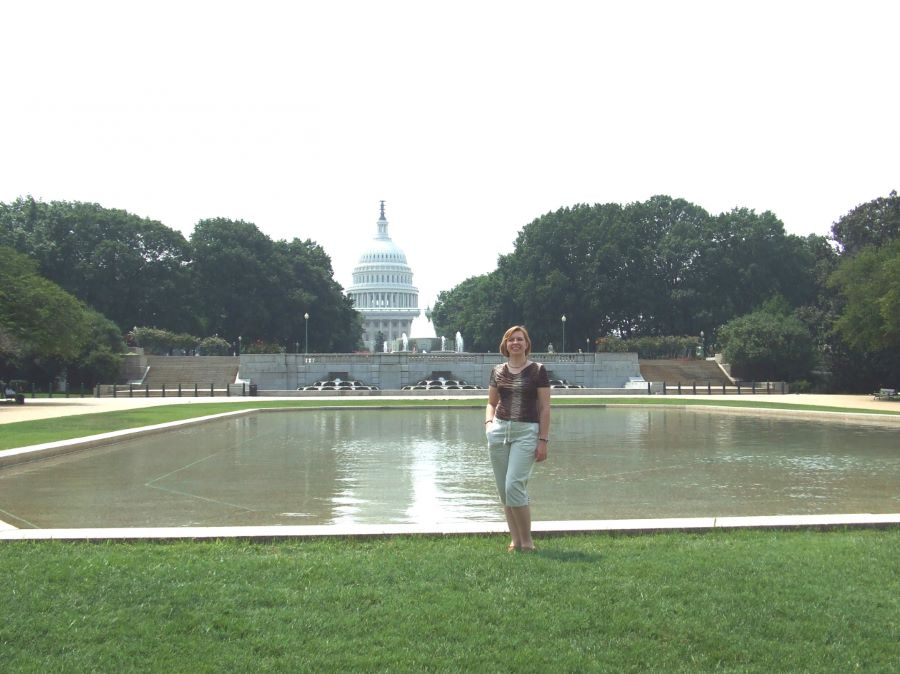
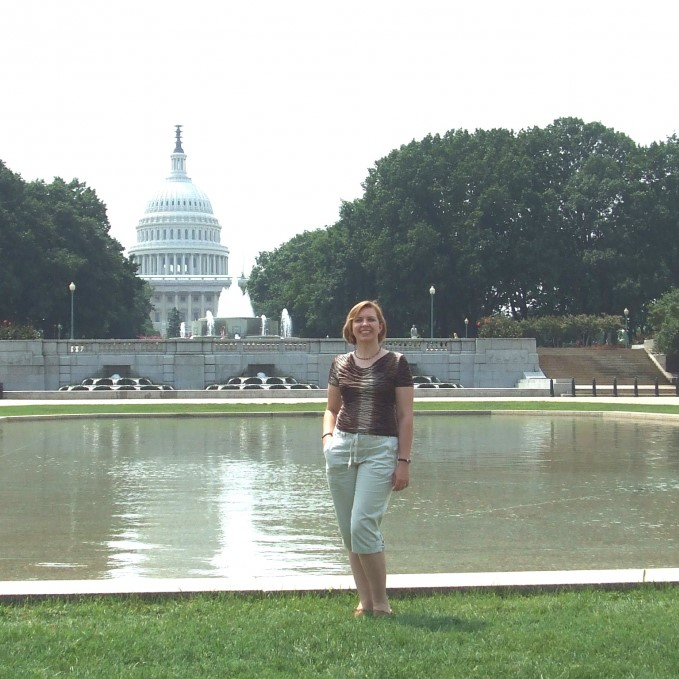
Add wepb format image

diff --git a/teacher.html b/teacher.html
@@ -100,57 +100,183 @@
         <section class="wrapper">
             <h2 class="content__title">Дипломы и сертификаты</h2>
             <div class="grid-photos">
-                <figure class="grid-photos__item"><img src="img/diplomas/1.jpg" alt="" class="grid-photos__image"></figure>
-                <figure class="grid-photos__item grid-photos__item--double"><img src="img/diplomas/2.jpg" alt="" class="grid-photos__image"></figure>
-                <figure class="grid-photos__item"><img src="img/diplomas/3.jpg" alt="" class="grid-photos__image"></figure>
-                <figure class="grid-photos__item grid-photos__item--double"><img src="img/diplomas/4.jpg" alt="" class="grid-photos__image"></figure>
-                <figure class="grid-photos__item"><img src="img/diplomas/7.jpg" alt="" class="grid-photos__image"></figure>
-                <figure class="grid-photos__item grid-photos__item--double"><img src="img/diplomas/8.jpg" alt="" class="grid-photos__image"></figure>
-                <figure class="grid-photos__item"><img src="img/diplomas/9.jpg" alt="" class="grid-photos__image"></figure>
-                <figure class="grid-photos__item grid-photos__item--double"><img src="img/diplomas/10.jpg" alt="" class="grid-photos__image"></figure>
-                <figure class="grid-photos__item"><img src="img/diplomas/13.jpg" alt="" class="grid-photos__image"></figure>
-                <figure class="grid-photos__item"><img src="img/diplomas/14.jpg" alt="" class="grid-photos__image"></figure>
-                <figure class="grid-photos__item"><img src="img/diplomas/19.jpg" alt="" class="grid-photos__image"></figure>
-                <figure class="grid-photos__item"><img src="img/diplomas/20.jpg" alt="" class="grid-photos__image"></figure>
-                <figure class="grid-photos__item grid-photos__item--double"><img src="img/diplomas/11.jpg" alt="" class="grid-photos__image"></figure>
-                <figure class="grid-photos__item grid-photos__item--double"><img src="img/diplomas/12.jpg" alt="" class="grid-photos__image"></figure>
-                <figure class="grid-photos__item"><img src="img/diplomas/15.jpg" alt="" class="grid-photos__image"></figure>
-                <figure class="grid-photos__item"><img src="img/diplomas/16.jpg" alt="" class="grid-photos__image"></figure>
-                <figure class="grid-photos__item"><img src="img/diplomas/17.jpg" alt="" class="grid-photos__image"></figure>
-                <figure class="grid-photos__item"><img src="img/diplomas/18.jpg" alt="" class="grid-photos__image"></figure>
-                <figure class="grid-photos__item"><img src="img/diplomas/21.jpg" alt="" class="grid-photos__image"></figure>
-                <figure class="grid-photos__item"><img src="img/diplomas/22.jpg" alt="" class="grid-photos__image"></figure>
-                <figure class="grid-photos__item"><img src="img/diplomas/23.jpg" alt="" class="grid-photos__image"></figure>
-                <figure class="grid-photos__item"><img src="img/diplomas/24.jpg" alt="" class="grid-photos__image"></figure>
-                <figure class="grid-photos__item"><img src="img/diplomas/25.jpg" alt="" class="grid-photos__image"></figure>
-                <figure class="grid-photos__item"><img src="img/diplomas/26.jpg" alt="" class="grid-photos__image"></figure>
+                <figure class="grid-photos__item">
+                    <picture>
+                        <source srcset="img/diplomas/1.webp" type="image/webp">
+                        <img src="img/diplomas/1.jpg" alt="Обложка аттестата о среднем образовании." class="grid-photos__image">
+                    </picture>
+                </figure>
+                <figure class="grid-photos__item grid-photos__item--double">
+                    <picture>
+                        <source srcset="img/diplomas/2.webp" type="image/webp">
+                        <img src="img/diplomas/2.jpg" alt="Разворот аттестата о среднем образовании." class="grid-photos__image">
+                    </picture>
+                </figure>
+                <figure class="grid-photos__item">
+                    <picture>
+                        <source srcset="img/diplomas/3.webp" type="image/webp">
+                        <img src="img/diplomas/3.jpg" alt="Обложка диплома о высшем образовании." class="grid-photos__image">
+                    </picture>
+                </figure>
+                <figure class="grid-photos__item grid-photos__item--double">
+                    <picture>
+                        <source srcset="img/diplomas/4.webp" type="image/webp">
+                        <img src="img/diplomas/4.jpg" alt="Разворот диплома о высшем образовании." class="grid-photos__image">
+                    </picture>
+                </figure>
+                <figure class="grid-photos__item">
+                    <picture>
+                        <source srcset="img/diplomas/7.webp" type="image/webp">
+                        <img src="img/diplomas/7.jpg" alt="Обложка диплома о высшем бакалавра." class="grid-photos__image">
+                    </picture>
+                </figure>
+                <figure class="grid-photos__item grid-photos__item--double">
+                    <picture>
+                        <source srcset="img/diplomas/8.webp" type="image/webp">
+                        <img src="img/diplomas/8.jpg" alt="Разворот диплома о высшем бакалавра." class="grid-photos__image">
+                    </picture>
+                </figure>
+                <figure class="grid-photos__item">
+                    <picture>
+                        <source srcset="img/diplomas/9.webp" type="image/webp">
+                        <img src="img/diplomas/9.jpg" alt="Обложка диплома о высшем магистра." class="grid-photos__image">
+                    </picture>
+                </figure>
+                <figure class="grid-photos__item grid-photos__item--double">
+                    <picture>
+                        <source srcset="img/diplomas/10.webp" type="image/webp">
+                        <img src="img/diplomas/10.jpg" alt="Разворот диплома о высшем магистра." class="grid-photos__image">
+                    </picture>
+                </figure>
+                <figure class="grid-photos__item">
+                    <picture>
+                        <source srcset="img/diplomas/13.webp" type="image/webp">
+                        <img src="img/diplomas/13.jpg" alt="Диплом." class="grid-photos__image">
+                    </picture>
+                </figure>
+                <figure class="grid-photos__item">
+                    <picture>
+                        <source srcset="img/diplomas/14.webp" type="image/webp">
+                        <img src="img/diplomas/14.jpg" alt="Диплом второй степени республиканского конкурса научных работ 1997 года." class="grid-photos__image">
+                    </picture>
+                </figure>
+                <figure class="grid-photos__item">
+                    <picture>
+                        <source srcset="img/diplomas/19.webp" type="image/webp">
+                        <img src="img/diplomas/19.jpg" alt="Диплом участника третьей Международной научно-практической кинференции." class="grid-photos__image">
+                    </picture>
+                </figure>
+                <figure class="grid-photos__item">
+                    <picture>
+                        <source srcset="img/diplomas/20.webp" type="image/webp">
+                        <img src="img/diplomas/20.jpg" alt="Свидетельство об успешном прохождении обучения по циклу 'Эффективное общение с использованием принципов и техник когнитивно-поведенческой психологии'." class="grid-photos__image">
+                    </picture>
+                </figure>
+                <figure class="grid-photos__item">
+                    <picture>
+                        <source srcset="img/diplomas/15.webp" type="image/webp">
+                        <img src="img/diplomas/15.jpg" alt="Certificate for successful completion of 'Community Leadership in Human Resources, Education and the Community'." class="grid-photos__image">
+                    </picture>
+                </figure>
+                <figure class="grid-photos__item">
+                    <picture>
+                        <source srcset="img/diplomas/16.webp" type="image/webp">
+                        <img src="img/diplomas/16.jpg" alt="Certificate for successful completion of a course of modern management techiques." class="grid-photos__image">
+                    </picture>
+                </figure>
+                <figure class="grid-photos__item">
+                    <picture>
+                        <source srcset="img/diplomas/17.webp" type="image/webp">
+                        <img src="img/diplomas/17.jpg" alt="Certificate for successful completion of a course in 'American Scene'." class="grid-photos__image">
+                    </picture>
+                </figure>
+                <figure class="grid-photos__item">
+                    <picture>
+                        <source srcset="img/diplomas/18.webp" type="image/webp">
+                        <img src="img/diplomas/18.jpg" alt="Certificate." class="grid-photos__image">
+                    </picture>
+                </figure>
+                <figure class="grid-photos__item">
+                    <picture>
+                        <source srcset="img/diplomas/21.webp" type="image/webp">
+                        <img src="img/diplomas/21.jpg" alt="Свидетельство о повышении квалификации по программе 'Воспитательный процесс в УВО'." class="grid-photos__image">
+                    </picture>
+                </figure>
+                <figure class="grid-photos__item">
+                    <picture>
+                        <source srcset="img/diplomas/22.webp" type="image/webp">
+                        <img src="img/diplomas/22.jpg" alt="Свидетельство о повышении квалификации по программе 'Кураторство как современный институт воспитания и управления'." class="grid-photos__image">
+                    </picture>
+                </figure>
+                <figure class="grid-photos__item">
+                    <picture>
+                        <source srcset="img/diplomas/23.webp" type="image/webp">
+                        <img src="img/diplomas/23.jpg" alt="Свидетельство о повышении квалификации по программе 'Искусство психолого-педагогического взаимодействия'." class="grid-photos__image">
+                    </picture>
+                </figure>
+                <figure class="grid-photos__item">
+                    <picture>
+                        <source srcset="img/diplomas/24.webp" type="image/webp">
+                        <img src="img/diplomas/24.jpg" alt="Свидетельство о повышении квалификации." class="grid-photos__image">
+                    </picture>
+                </figure>
+                <figure class="grid-photos__item">
+                    <picture>
+                        <source srcset="img/diplomas/25.webp" type="image/webp">
+                        <img src="img/diplomas/25.jpg" alt="Свидетельство о повышении квалификации." class="grid-photos__image">
+                    </picture>
+                </figure>
+                <figure class="grid-photos__item">
+                    <picture>
+                        <source srcset="img/diplomas/26.webp" type="image/webp">
+                        <img src="img/diplomas/26.jpg" alt="Свидетельство о повышении квалификации." class="grid-photos__image">
+                    </picture>
+                </figure>
             </div>
         </section>
         <section class="wrapper">
             <h2 class="content__title">Межкультурная коммуникация </h2>
             <div class="grid-photos">
                 <figure class="grid-photos__item grid-photos__item--triple">
-                    <img src="img/intercultural/1.jpg" alt="" class="grid-photos__image">
+                    <picture>
+                        <source srcset="img/intercultural/1.webp" type="image/webp">
+                        <img src="img/intercultural/1.jpg" alt="Фотография преподавателя с людьми." class="grid-photos__image">
+                    </picture>
                     <figcaption lang="en" class="content__text grid-photos__caption">At Rotary International Club, Washington DC</figcaption>
                 </figure>
                 <figure class="grid-photos__item grid-photos__item--triple">
-                    <img src="img/intercultural/2.jpg" alt="" class="grid-photos__image">
+                    <picture>
+                        <source srcset="img/intercultural/2.webp" type="image/webp">
+                        <img src="img/intercultural/2.jpg" alt="Фотография преподавателя с людьми." class="grid-photos__image">
+                    </picture>
                     <figcaption lang="en" class="content__text grid-photos__caption">At DC Voice with Washington DC school teachers</figcaption>
                 </figure>
                 <figure class="grid-photos__item grid-photos__item--triple">
-                    <img src="img/intercultural/3.jpg" alt="" class="grid-photos__image">
+                    <picture>
+                        <source srcset="img/intercultural/3.webp" type="image/webp">
+                        <img src="img/intercultural/3.jpg" alt="Фотография преподавателя с людьми." class="grid-photos__image">
+                    </picture>
                     <figcaption lang="en" class="content__text grid-photos__caption">White Attire Party at the Ronald Reagan Building, Washington DC</figcaption>
                 </figure>
                 <figure class="grid-photos__item grid-photos__item--triple">
-                    <img src="img/intercultural/4.jpg" alt="" class="grid-photos__image">
+                    <picture>
+                        <source srcset="img/intercultural/4.webp" type="image/webp">
+                        <img src="img/intercultural/4.jpg" alt="Фотография преподавателя с людьми." class="grid-photos__image">
+                    </picture>
                     <figcaption lang="en" class="content__text grid-photos__caption">At the John F. Kennedy Center, Washington DC</figcaption>
                 </figure>
                 <figure class="grid-photos__item grid-photos__item--triple">
-                    <img src="img/intercultural/5.jpg" alt="" class="grid-photos__image">
+                    <picture>
+                        <source srcset="img/intercultural/5.webp" type="image/webp">
+                        <img src="img/intercultural/5.jpg" alt="Фотография преподавателя с восковыми фигурами Анджелины Джоли и Бреда Питта." class="grid-photos__image">
+                    </picture>
                     <figcaption lang="en" class="content__text grid-photos__caption">With Angelina Jolie and Brad Pitt at Madame Tussauds Museum, New York</figcaption>
                 </figure>
                 <figure class="grid-photos__item grid-photos__item--triple">
-                    <img src="img/intercultural/6.jpg" alt="" class="grid-photos__image">
+                    <picture>
+                        <source srcset="img/intercultural/6.webp" type="image/webp">
+                        <img src="img/intercultural/6.jpg" alt="Фотография преподавателя с восковой фигурой Джулии Робертс." class="grid-photos__image">
+                    </picture>
                     <figcaption lang="en" class="content__text grid-photos__caption">With Julia Roberts at Madame Tussauds Museum, New York</figcaption>
                 </figure>
             </div>

diff --git a/css/style.css b/css/style.css
@@ -828,10 +828,11 @@ body, html {
 
 .photo-teacher {
     background-image: url("../img/teacher-hero_600.jpg");
+    background-image: url("../img/teacher-hero_600.webp");
     background-position: center center;
     background-repeat: no-repeat;
     background-size: cover;
-    height: 75vw;
+    height: 100vw;
     overflow: hidden;
     width: 100%;
 }
@@ -845,9 +846,16 @@ body, html {
     padding: 0.5em 1em;
 }
 
+@media screen and (min-width: 400px) and (max-width: 600px) {
+    .photo-teacher {
+        height: 75vw;
+    }
+}
+
 @media screen and (min-width: 600px) and (max-width: 900px) {
     .photo-teacher {
         background-image: url("../img/teacher-hero_900.jpg");
+        background-image: url("../img/teacher-hero_900.webp");
         height: 50vw;
     }
     
@@ -859,6 +867,7 @@ body, html {
 @media screen and (min-width: 1200px) {
     .photo-teacher {
         background-image: url("../img/teacher-hero.jpg");
+        background-image: url("../img/teacher-hero.webp");
         height: 25vw;
     }
     

diff --git a/index.html b/index.html
@@ -105,7 +105,10 @@
             <h2 class="content__title">Преподаватель</h2>
             <div class="two-up">
                 <div class="two-up__aside">
-                    <img src="img/teacher.jpg" alt="Фотография преподавателя с выпускного после магистратуры." class="two-up__image">
+                    <picture>
+                        <source srcset="img/teacher.webp" type="image/webp">
+                        <img class="two-up__image" src="img/teacher.jpg" alt="Фотография преподавателя с выпускного после магистратуры.">
+                    </picture>
                 </div>
                 <div class="two-up__body">
                     <p class="content__subtitle two-up__text">Магистр педагогических наук</p>
